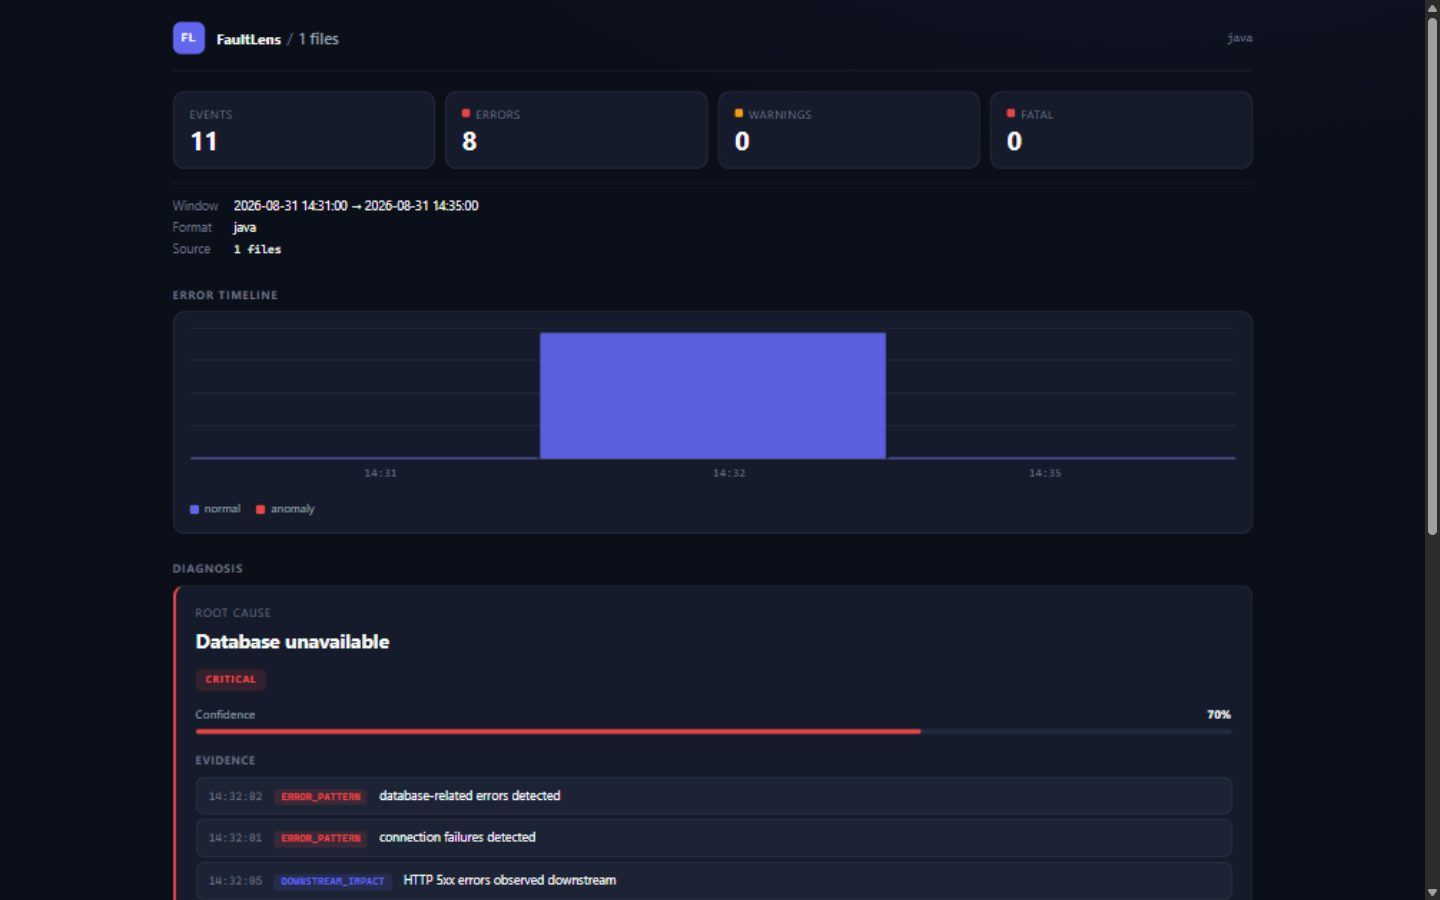
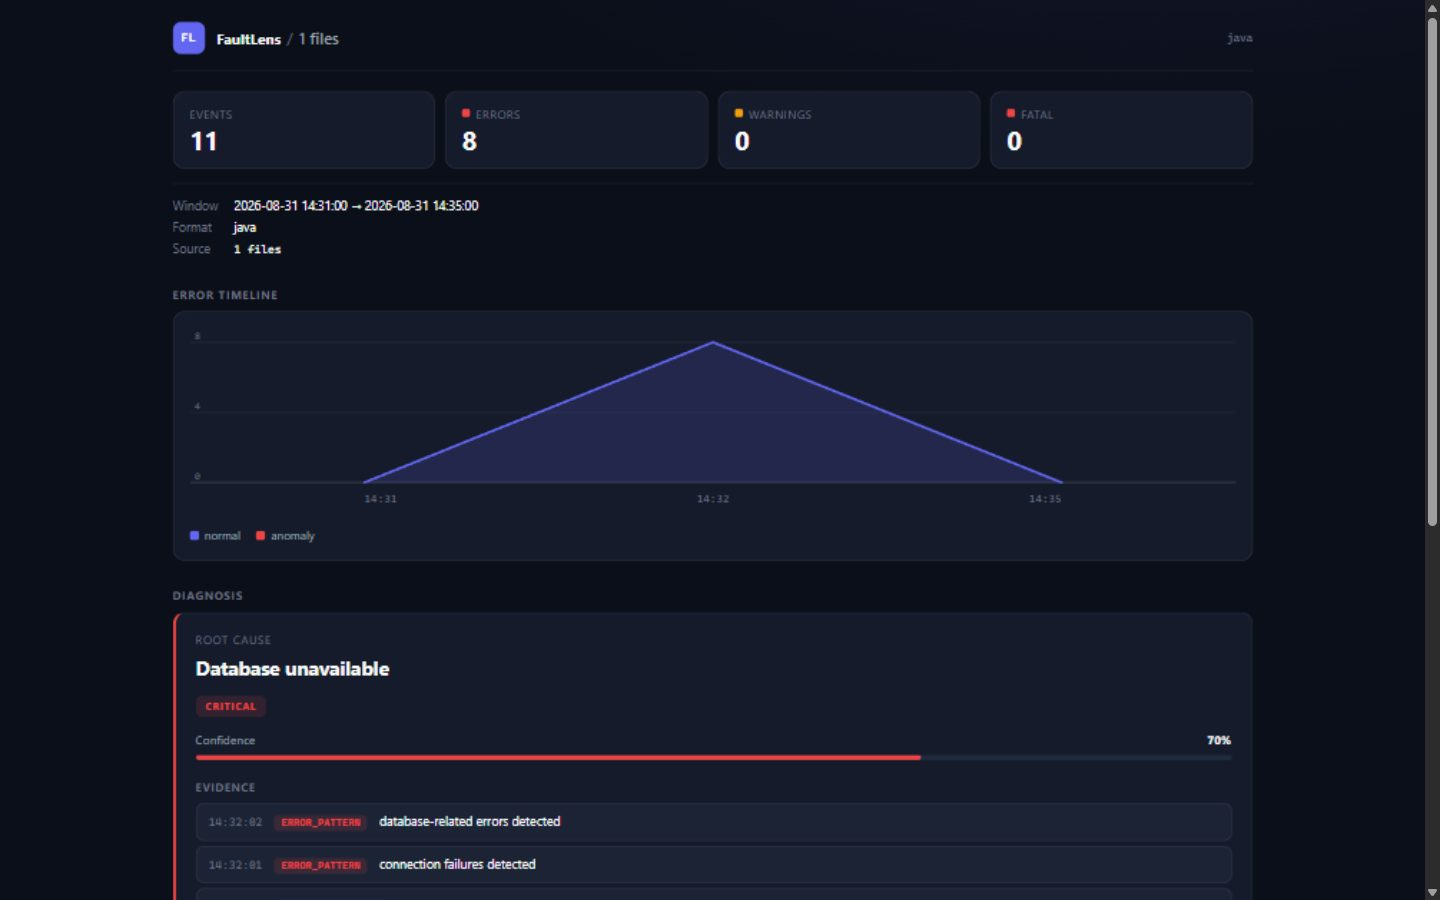
feat: restyle error timeline as an area chart with anomaly markers

Changed region(s): [[0.0938, 0.56, 0.6562, 0.9956], [0.125, 0.3422, 0.8438, 0.56], [0.8438, 0.7778, 0.875, 0.84]]

diff --git a/docs/screenshots/report.html b/docs/screenshots/report.html
@@ -228,7 +228,7 @@
   
   <h2>Error Timeline</h2>
   <div class="panel">
-    <svg viewBox="0 0 880 130" role="img" aria-label="Error timeline" style="width:100%;height:auto"><line x1="0" y1="0" x2="880" y2="0" stroke="#ffffff" stroke-opacity="0.06"/><line x1="0" y1="27" x2="880" y2="27" stroke="#ffffff" stroke-opacity="0.06"/><line x1="0" y1="55" x2="880" y2="55" stroke="#ffffff" stroke-opacity="0.06"/><line x1="0" y1="82" x2="880" y2="82" stroke="#ffffff" stroke-opacity="0.06"/><line x1="0" y1="110" x2="880" y2="110" stroke="#ffffff" stroke-opacity="0.18"/><rect x="1.2" y="109.0" width="290.8" height="1.0" rx="1.5" fill="#6366F1" fill-opacity="0.9"/><rect x="294.6" y="4.0" width="290.8" height="106.0" rx="1.5" fill="#6366F1" fill-opacity="0.9"/><rect x="587.9" y="109.0" width="290.8" height="1.0" rx="1.5" fill="#6366F1" fill-opacity="0.9"/><text x="146.7" y="125" font-size="10" fill="#6B7280" text-anchor="start" font-family="ui-monospace,Consolas,monospace">14:31</text><text x="440.0" y="125" font-size="10" fill="#6B7280" text-anchor="start" font-family="ui-monospace,Consolas,monospace">14:32</text><text x="733.3" y="125" font-size="10" fill="#6B7280" text-anchor="end" font-family="ui-monospace,Consolas,monospace">14:35</text></svg>
+    <svg viewBox="0 0 880 152" role="img" aria-label="Error timeline" style="width:100%;height:auto"><line x1="0" y1="12.0" x2="880" y2="12.0" stroke="#ffffff" stroke-opacity="0.05"/><text x="4" y="9.0" font-size="9" fill="#6B7280" font-family="ui-monospace,Consolas,monospace">8</text><line x1="0" y1="71.0" x2="880" y2="71.0" stroke="#ffffff" stroke-opacity="0.05"/><text x="4" y="68.0" font-size="9" fill="#6B7280" font-family="ui-monospace,Consolas,monospace">4</text><line x1="0" y1="130.0" x2="880" y2="130.0" stroke="#ffffff" stroke-opacity="0.18"/><text x="4" y="127.0" font-size="9" fill="#6B7280" font-family="ui-monospace,Consolas,monospace">0</text><path d="M 146.7,130.0 L 440.0,12.0 L 733.3,130.0 L733.3,130.0 L146.7,130.0 Z" fill="#6366F1" fill-opacity="0.16"/><path d="M 146.7,130.0 L 440.0,12.0 L 733.3,130.0" fill="none" stroke="#6366F1" stroke-width="2" stroke-linejoin="round" stroke-linecap="round"/><text x="146.7" y="147" font-size="10" fill="#6B7280" text-anchor="start" font-family="ui-monospace,Consolas,monospace">14:31</text><text x="440.0" y="147" font-size="10" fill="#6B7280" text-anchor="middle" font-family="ui-monospace,Consolas,monospace">14:32</text><text x="733.3" y="147" font-size="10" fill="#6B7280" text-anchor="end" font-family="ui-monospace,Consolas,monospace">14:35</text></svg>
     <div class="legend">
       <span><i class="normal"></i>normal</span>
       <span><i class="anomaly"></i>anomaly</span>

diff --git a/internal/output/html.go b/internal/output/html.go
@@ -399,9 +399,9 @@ func evidenceBadgeClass(t string) string {
 	}
 }
 
-// timelineSVG renders the per-minute error counts as an inline SVG bar chart.
-// Buckets flagged by the anomaly detector are drawn in red. The chart is
-// capped at maxTimelineBars buckets to stay readable.
+// timelineSVG renders the per-minute error counts as an area chart (fill +
+// line), with anomalous buckets marked in red — a Datadog/Grafana-style
+// metric view. The chart is capped at maxTimelineBars buckets.
 func timelineSVG(tl []timeline.Bucket, anoms []anomaly.Detection) template.HTML {
 	if len(tl) == 0 {
 		return ""
@@ -414,8 +414,8 @@ func timelineSVG(tl []timeline.Bucket, anoms []anomaly.Detection) template.HTML 
 
 	const (
 		width  = 880
-		plotH  = 110
-		labelH = 20
+		plotH  = 130
+		labelH = 22
 	)
 	height := plotH + labelH
 
@@ -430,47 +430,74 @@ func timelineSVG(tl []timeline.Bucket, anoms []anomaly.Detection) template.HTML 
 		anomAt[a.Bucket.Unix()] = true
 	}
 
+	n := len(buckets)
+	barW := float64(width) / float64(n)
+
+	type pt struct{ x, y float64 }
+	pts := make([]pt, n)
+	for i, bucket := range buckets {
+		x := (float64(i) + 0.5) * barW
+		h := float64(bucket.Errors) / float64(maxErr) * (plotH - 12)
+		pts[i] = pt{x: x, y: plotH - h}
+	}
+	base := float64(plotH)
+
 	var b strings.Builder
 	fmt.Fprintf(&b, `<svg viewBox="0 0 %d %d" role="img" aria-label="Error timeline" style="width:100%%;height:auto">`, width, height)
 
-	// Grid lines + baseline (subtle on the dark background).
-	for _, gy := range []int{0, plotH / 4, plotH / 2, plotH * 3 / 4, plotH} {
-		op := "0.06"
-		if gy == plotH {
+	// Horizontal grid lines with y-axis labels (max / half / zero).
+	for _, frac := range []float64{1, 0.5, 0} {
+		y := plotH - frac*(plotH-12)
+		op := "0.05"
+		if frac == 0 {
 			op = "0.18"
 		}
-		fmt.Fprintf(&b, `<line x1="0" y1="%d" x2="%d" y2="%d" stroke="#ffffff" stroke-opacity="%s"/>`, gy, width, gy, op)
+		fmt.Fprintf(&b, `<line x1="0" y1="%.1f" x2="%d" y2="%.1f" stroke="#ffffff" stroke-opacity="%s"/>`, y, width, y, op)
+		val := int(float64(maxErr)*frac + 0.5)
+		fmt.Fprintf(&b, `<text x="4" y="%.1f" font-size="9" fill="#6B7280" font-family="ui-monospace,Consolas,monospace">%d</text>`, y-3, val)
 	}
 
-	n := len(buckets)
-	barW := float64(width) / float64(n)
-	gap := barW * 0.22
-	if gap > 2.5 {
-		gap = 2.5
-	}
-	for i, bucket := range buckets {
-		x := float64(i)*barW + gap/2
-		h := float64(bucket.Errors) / float64(maxErr) * (plotH - 4)
-		if h < 1 {
-			h = 1
+	// Area fill under the line (solid translucent primary, no gradient).
+	var area strings.Builder
+	area.WriteString("M")
+	for i, p := range pts {
+		fmt.Fprintf(&area, " %.1f,%.1f", p.x, p.y)
+		if i < n-1 {
+			area.WriteString(" L")
 		}
-		y := plotH - h
-		color := "#6366F1"
-		opacity := "0.9"
-		if anomAt[bucket.Start.Unix()] {
-			color = "#EF4444"
-			opacity = "1"
-		}
-		fmt.Fprintf(&b, `<rect x="%.1f" y="%.1f" width="%.1f" height="%.1f" rx="1.5" fill="%s" fill-opacity="%s"/>`,
-			x, y, barW-gap, h, color, opacity)
 	}
+	fmt.Fprintf(&area, " L%.1f,%.1f L%.1f,%.1f Z", pts[n-1].x, base, pts[0].x, base)
+	fmt.Fprintf(&b, `<path d="%s" fill="#6366F1" fill-opacity="0.16"/>`, area.String())
+
+	// Line connecting the points.
+	var line strings.Builder
+	line.WriteString("M")
+	for i, p := range pts {
+		fmt.Fprintf(&line, " %.1f,%.1f", p.x, p.y)
+		if i < n-1 {
+			line.WriteString(" L")
+		}
+	}
+	fmt.Fprintf(&b, `<path d="%s" fill="none" stroke="#6366F1" stroke-width="2" stroke-linejoin="round" stroke-linecap="round"/>`, line.String())
+
+	// Anomalous buckets: red markers on the line.
+	for i, p := range pts {
+		if anomAt[buckets[i].Start.Unix()] {
+			fmt.Fprintf(&b, `<circle cx="%.1f" cy="%.1f" r="3.5" fill="#EF4444"/>`, p.x, p.y)
+		}
+	}
+
+	// Time labels: first, middle, last.
 	for _, idx := range []int{0, n / 2, n - 1} {
-		anchor := "start"
+		anchor := "middle"
+		if idx == 0 {
+			anchor = "start"
+		}
 		if idx == n-1 {
 			anchor = "end"
 		}
 		fmt.Fprintf(&b, `<text x="%.1f" y="%d" font-size="10" fill="#6B7280" text-anchor="%s" font-family="ui-monospace,Consolas,monospace">%s</text>`,
-			float64(idx)*barW+barW/2, height-5, anchor, buckets[idx].Start.Format("15:04"))
+			pts[idx].x, height-5, anchor, buckets[idx].Start.Format("15:04"))
 	}
 	b.WriteString(`</svg>`)
 	return template.HTML(b.String())
